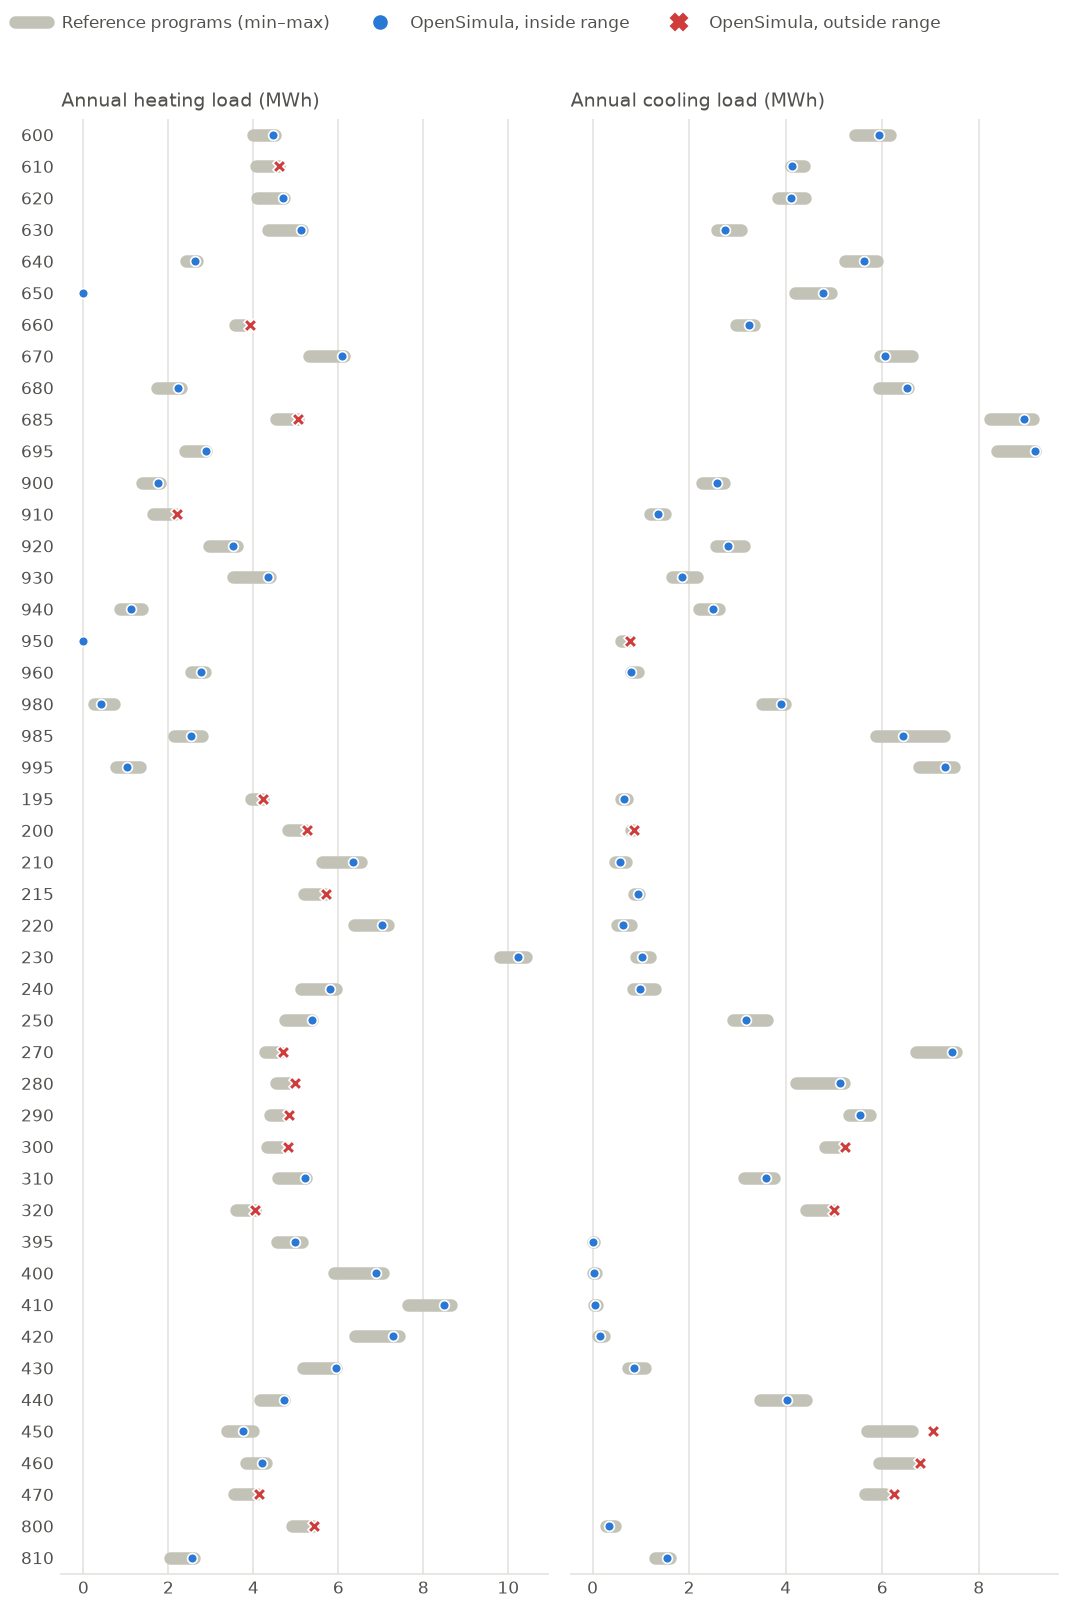
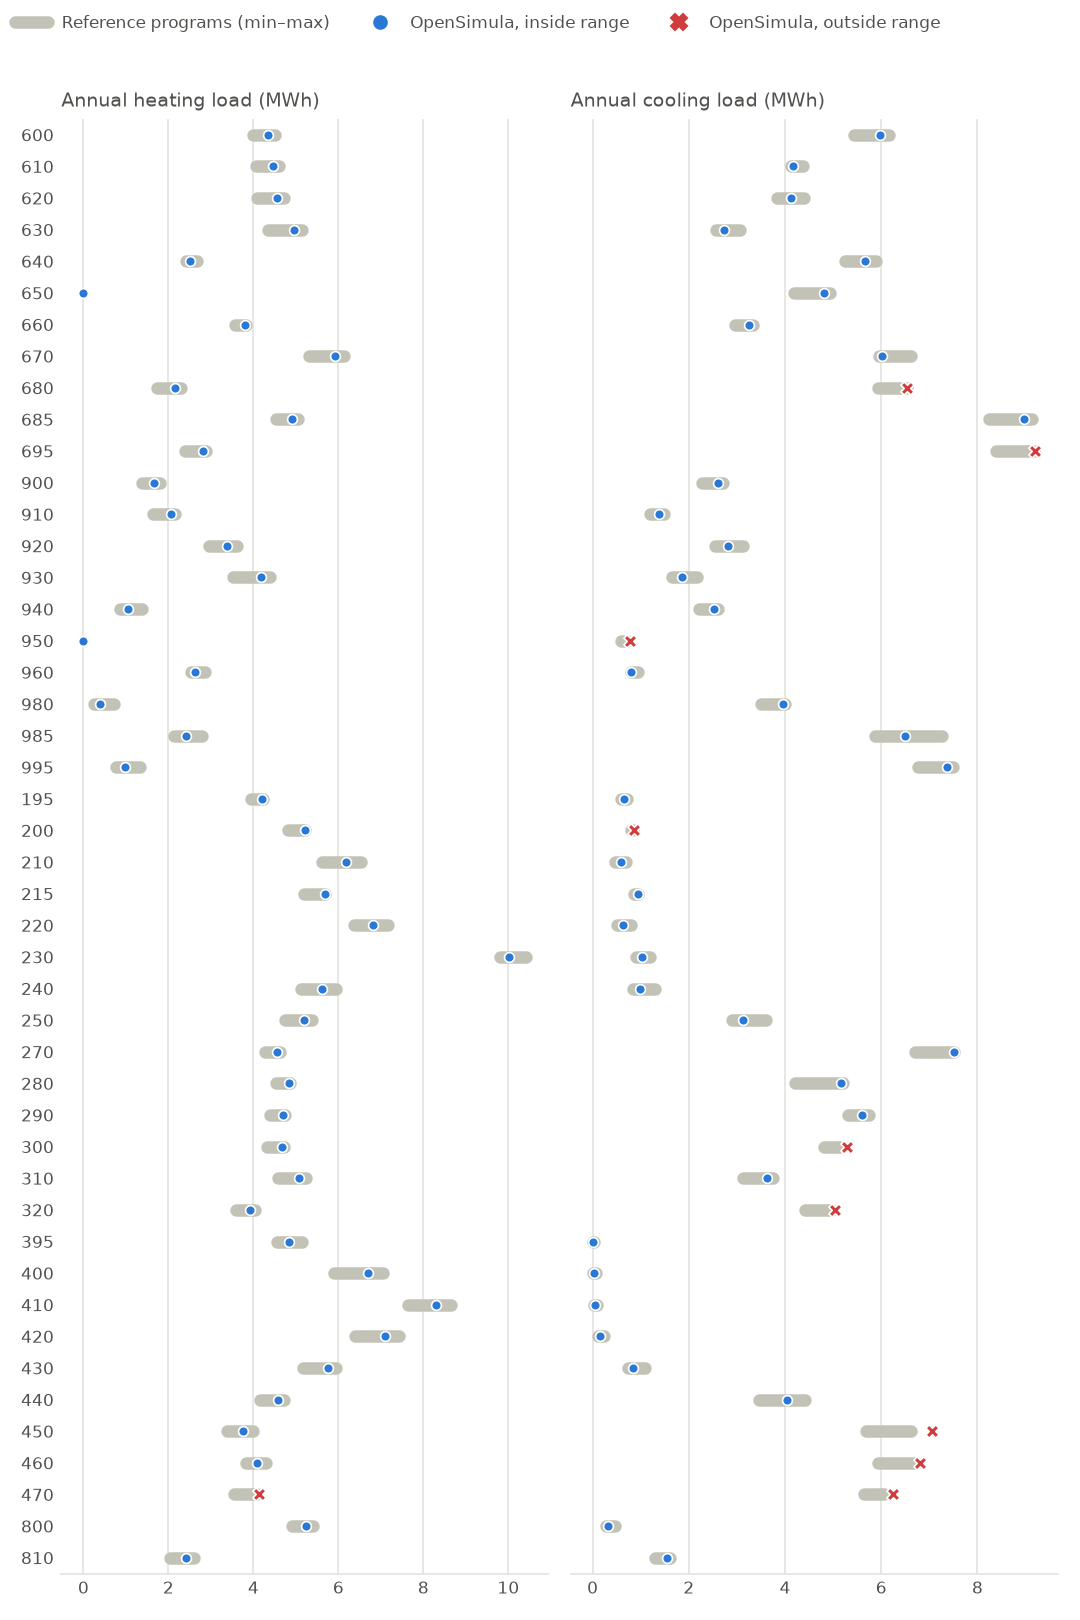
Paper: validation numbers, figure and findings of version 0.8.10

diff --git a/paper/paper.md b/paper/paper.md
@@ -22,7 +22,7 @@ affiliations:
     index: 1
   - name: Departamento de Máquinas y Motores Térmicos, Escuela Politécnica Superior de Algeciras, Universidad de Cádiz, Spain
     index: 2
-date: 28 October 2026
+date: 12 November 2026
 bibliography: paper.bib
 ---
 
@@ -126,12 +126,14 @@ reference programs; it also generates the validation page of the documentation. 
 comparison runs in continuous integration on every change to the code, so that any change in
 the results of the 135 test projects is detected.
 
-With version 0.8.9, 2,379 of the 2,740 single-valued outputs (87 %) lie inside the range of
+With version 0.8.10, 2,446 of the 2,740 single-valued outputs (89 %) lie inside the range of
 the reference programs, and almost half of the remaining ones are within 1 % of the nearest
 bound. \autoref{fig:loads} shows the annual heating and cooling loads of the building
-envelope cases. The cases outside the range and their probable causes, such as the constant
-interior convection coefficients that produce a small, systematic overestimation of heating
-loads, are documented in the repository. The range of the reference programs is not the
+envelope cases. The comparison also guides the development of the models: in version 0.8.10
+it revealed, for instance, that linearizing the exterior long-wave exchange with the sky at
+20 °C overestimated the heating loads, and that the dry-coil criterion of the direct-expansion
+units needed an apparatus dew point model. The cases still outside the range and their
+probable causes are documented in the repository. The range of the reference programs is not the
 Standard's acceptance criterion, but it shows that the results of OpenSimula are of the same
 quality as those of established simulation programs.
 
